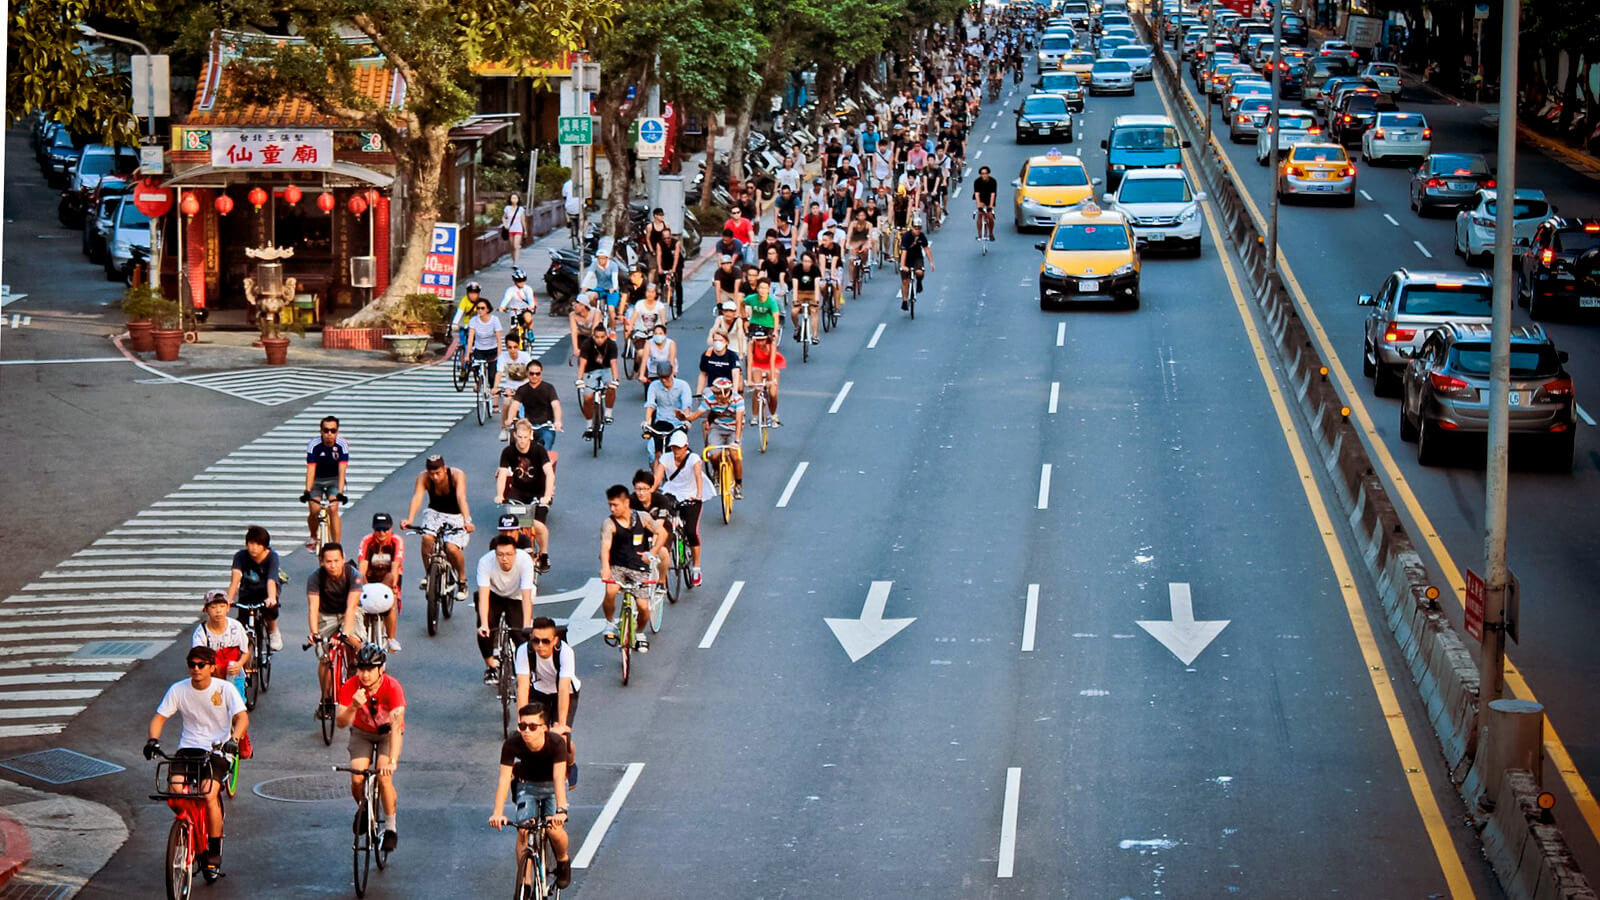
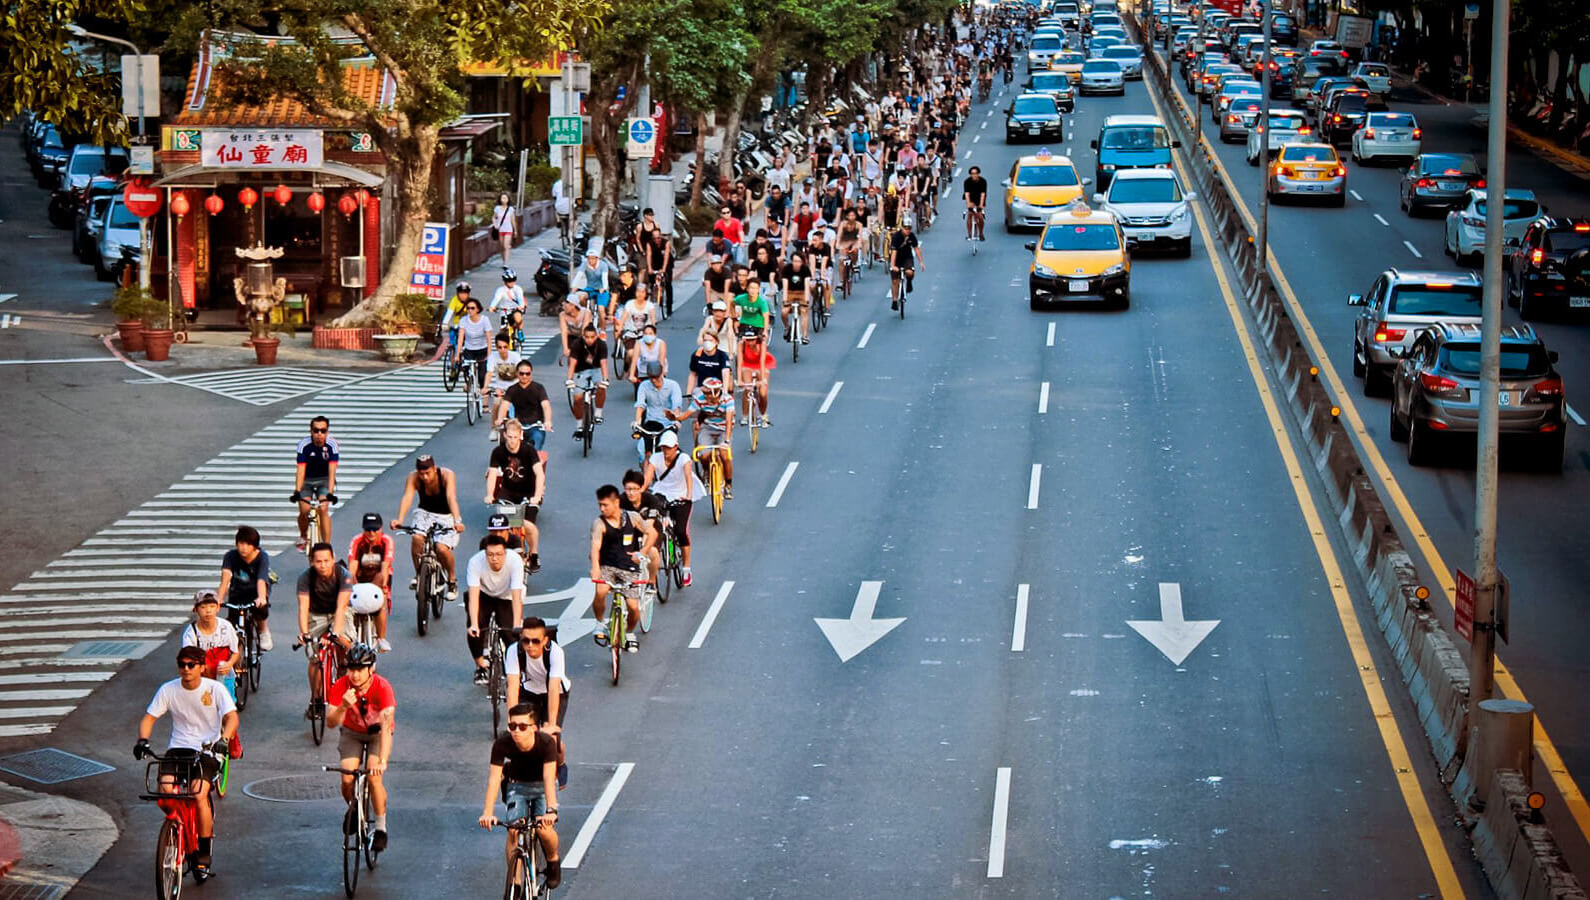
Fix js and image quality

diff --git a/wordpress_themes/tuba/script.js b/wordpress_themes/tuba/script.js
@@ -5,7 +5,7 @@
     var posY = window.pageYOffset;
     var moveRange = 50;
     var moveIndex = 0.3;
-
+    var windowWidth = window.innerWidth;
     var getParallex = function (posY, moveIndex, moveRange) {
         var distance = (posY * moveIndex)  - moveRange;
         return distance;

diff --git a/wordpress_themes/tuba/less/main.less b/wordpress_themes/tuba/less/main.less
@@ -360,7 +360,7 @@
     }
     .hero {
         img {
-            max-width: 1600px;
+            max-width: 1590px;
             min-width: @minWidth;
         }
     }
